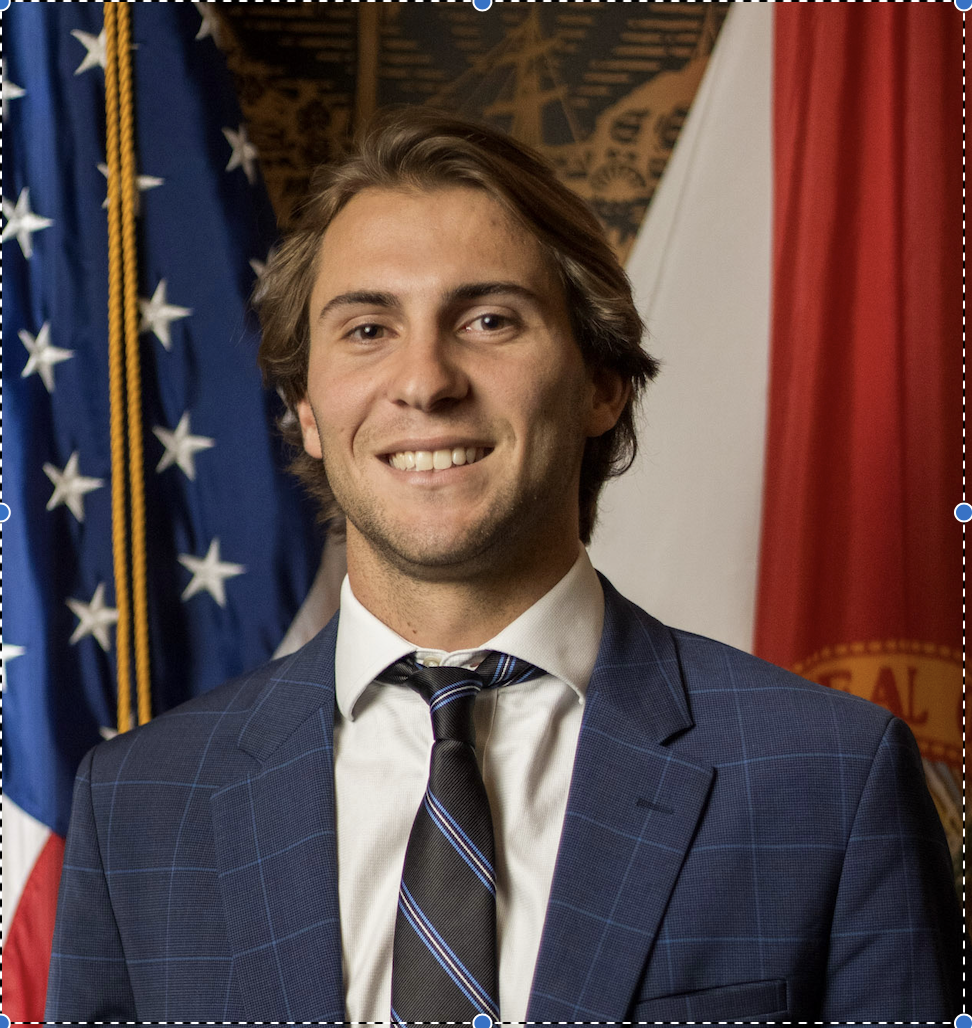
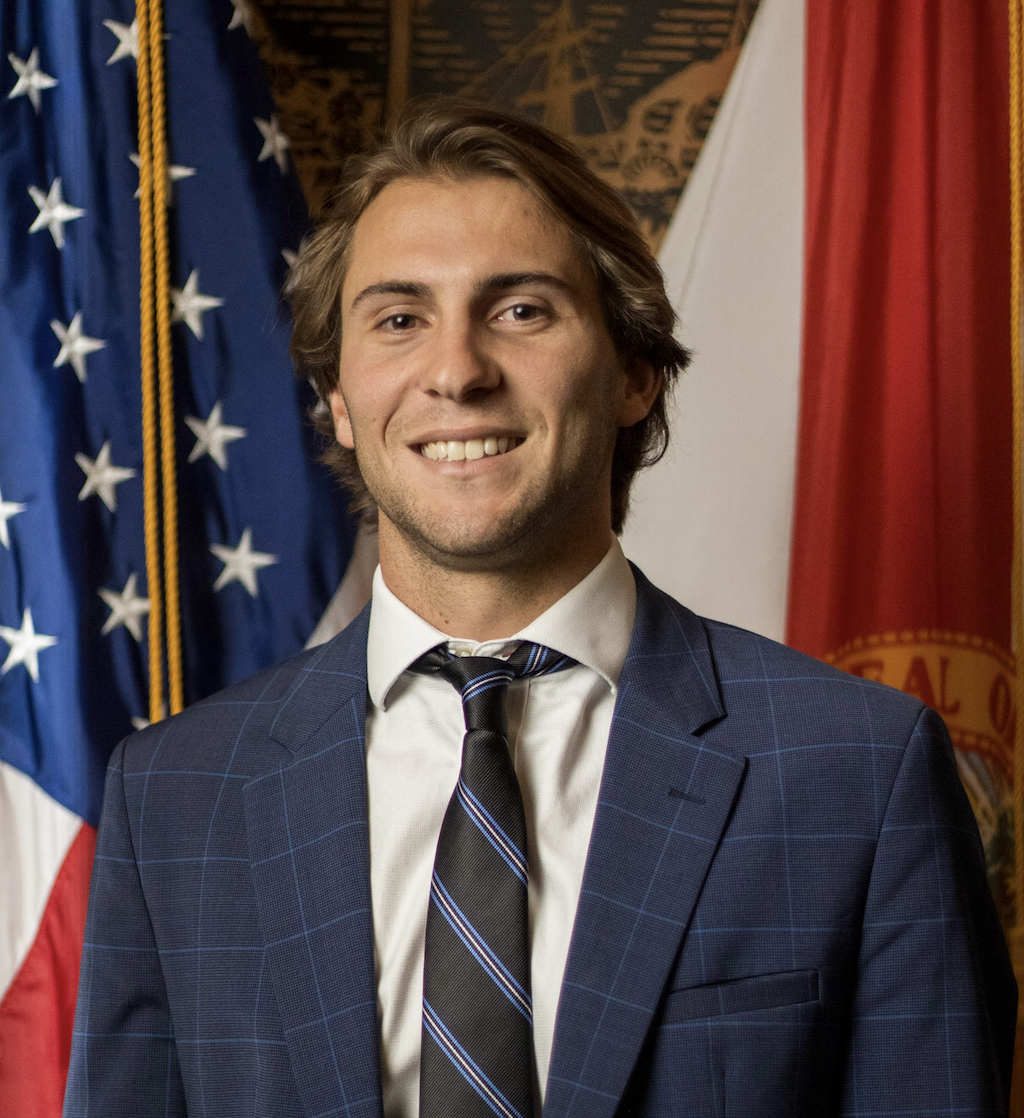
Update to latest Joseph photo (lowercase filename)
🤖 Generated with [Claude Code](https://claude.com/claude-code)

diff --git a/src/pages/Contact.jsx b/src/pages/Contact.jsx
@@ -12,7 +12,7 @@ function Contact() {
       role: 'Co-Founder',
       bio: 'Joseph Visconti is a Co-Founder of Vector Fund, an early-stage investment firm focused on identifying and backing software founders building at the frontier of artificial intelligence. Joseph previously led artificial intelligence initiatives within the Florida Department of Government Efficiency, housed in the Executive Office of the Governor, State of Florida, where he worked alongside software engineers and senior leadership to deploy AI-driven products aimed at improving government efficiency, transparency, and operations. He is also the Founder of Delilah, a legislative media and civic-technology company that leverages artificial intelligence to increase transparency, accessibility, and public understanding of the legislative process. He holds a double major in Economics and History from Florida State University and has completed professional education at MIT in applied generative AI.',
       email: 'joseph@vectorfund.io',
-      photo: '/Joseph-visconti.JPEG'
+      photo: '/joseph-visconti.JPEG'
     }
   ]
 
